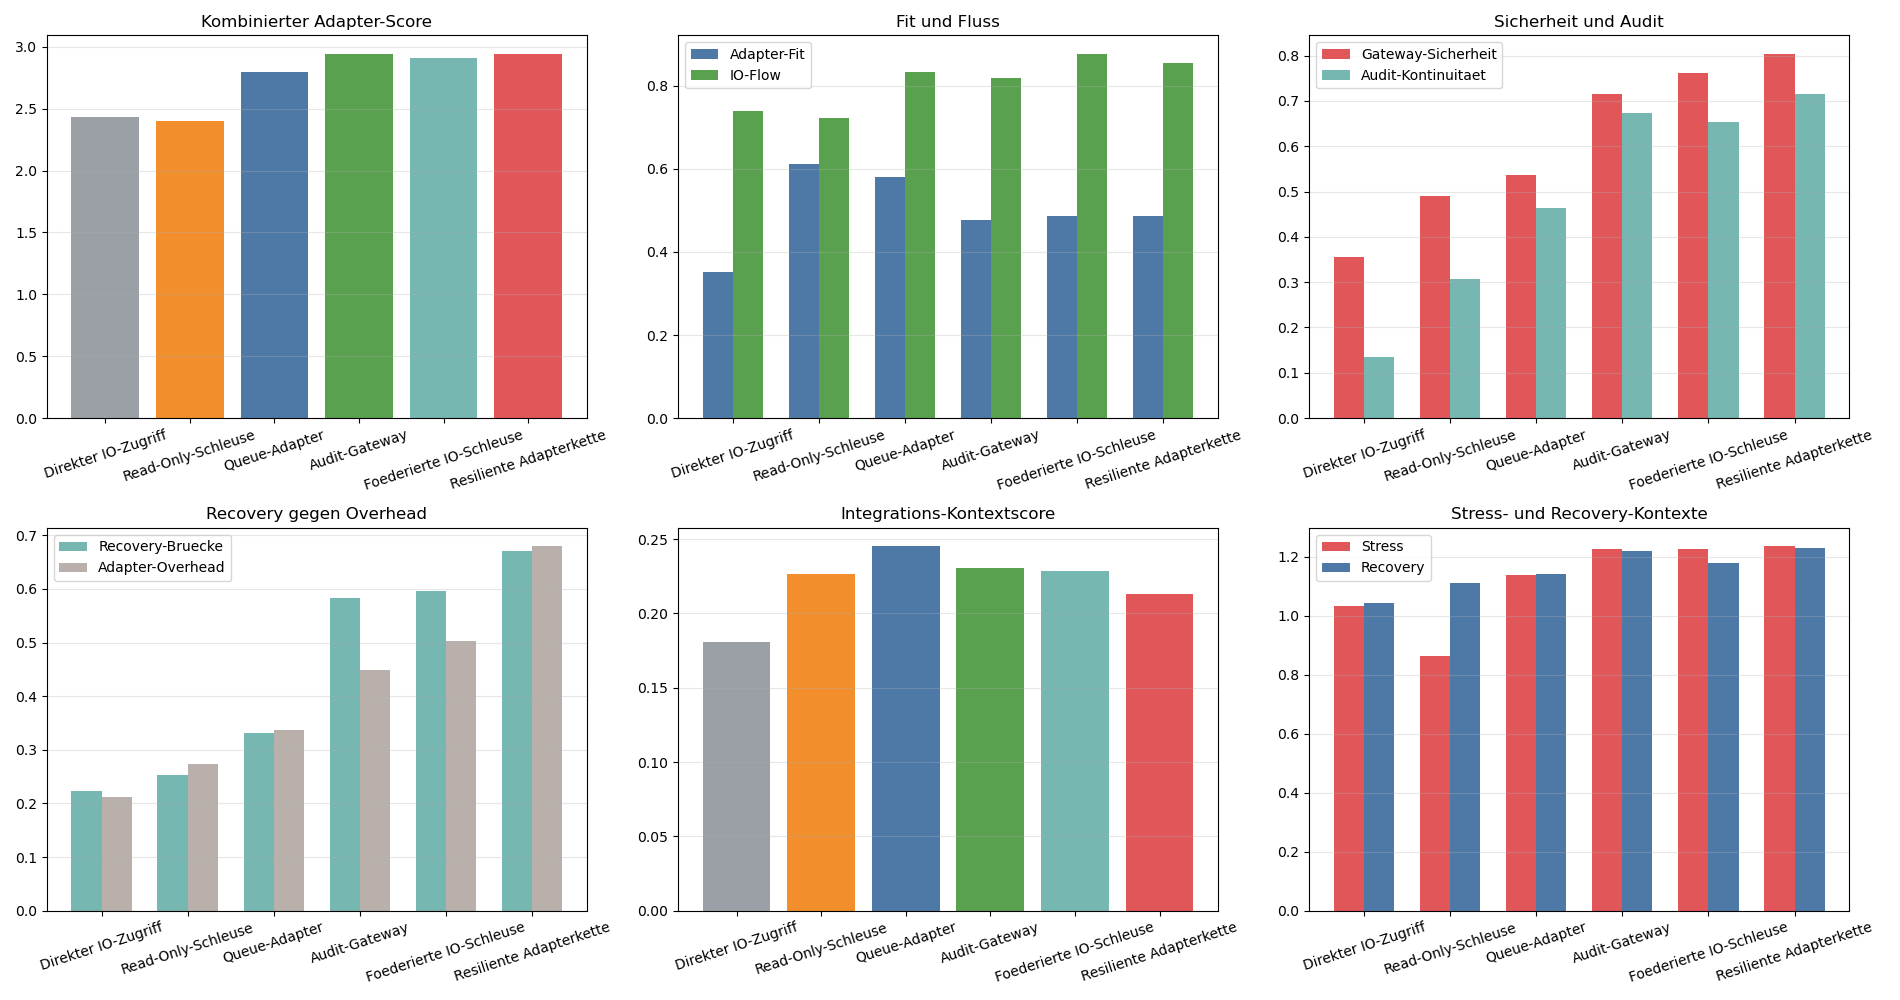
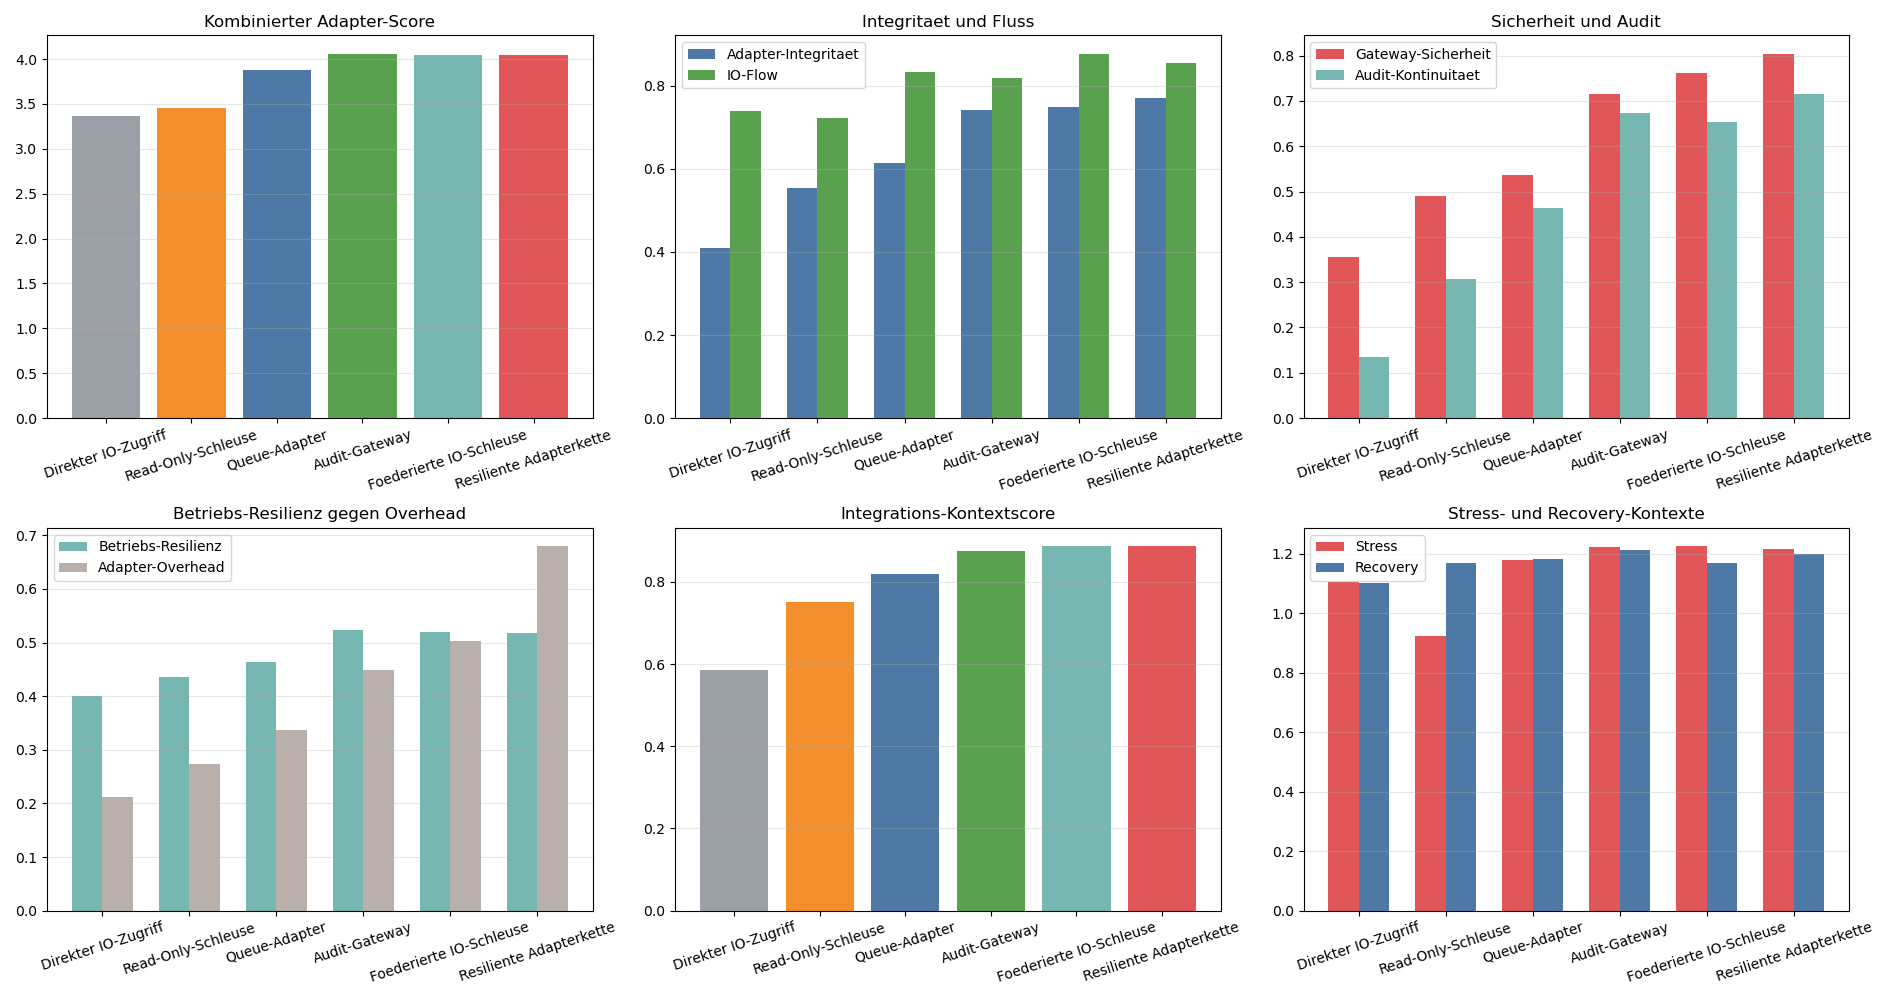
Refine tool adapter resilience metrics

diff --git a/schwarm_werkzeugadapter.py b/schwarm_werkzeugadapter.py
@@ -414,6 +414,28 @@ def adapter_metrics(config, result, params, profile, kontext):
             ]
         )
     )
+    adapter_integrity = clamp01(
+        mittelwert(
+            [
+                adapter_fit,
+                gateway_safety,
+                audit_continuity,
+                1.0 - workflow.get('misinformation_corruption_mean', 0.0),
+                route_traceability,
+            ]
+        )
+    )
+    operational_resilience = clamp01(
+        mittelwert(
+            [
+                io_flow,
+                recovery_bridge,
+                gateway_safety,
+                workflow.get('sync_strength_mean', 0.0),
+                1.0 - adapter_overhead,
+            ]
+        )
+    )
 
     return {
         'completion_rate': workflow.get('completion_rate', 0.0),
@@ -435,6 +457,8 @@ def adapter_metrics(config, result, params, profile, kontext):
         'audit_continuity': audit_continuity,
         'io_flow': io_flow,
         'recovery_bridge': recovery_bridge,
+        'adapter_integrity': adapter_integrity,
+        'operational_resilience': operational_resilience,
         'adapter_overhead': adapter_overhead,
         'route_exposure': route_exposure,
     }
@@ -484,35 +508,34 @@ def context_score(kontext_name, result, agent_count):
 
     if kontext_name == 'integration':
         return (
-            metrics['completion_rate']
-            + 0.18 * metrics['adapter_fit']
+            metrics['adapter_integrity']
+            + 0.18 * metrics['operational_resilience']
             + 0.14 * metrics['io_flow']
             + 0.08 * metrics['audit_continuity']
             - 0.10 * metrics['adapter_overhead']
         )
     if kontext_name == 'operations':
         return (
-            metrics['completion_rate']
+            metrics['operational_resilience']
             + 0.18 * metrics['io_flow']
-            + 0.14 * metrics['audit_continuity']
-            + 0.10 * metrics['adapter_fit']
+            + 0.14 * metrics['adapter_integrity']
+            + 0.10 * metrics['audit_continuity']
             - 0.10 * metrics['adapter_overhead']
         )
     if kontext_name == 'stress':
         return (
             base
-            + 0.18 * metrics['gateway_safety']
-            + 0.14 * metrics['audit_continuity']
-            + 0.10 * metrics['recovery_bridge']
-            - 0.12 * metrics['corruption_mean']
+            + 0.18 * metrics['adapter_integrity']
+            + 0.14 * metrics['operational_resilience']
+            + 0.10 * metrics['gateway_safety']
             - 0.10 * metrics['route_exposure']
             - 0.08 * metrics['adapter_overhead']
         )
     return (
         base
-        + 0.20 * metrics['recovery_bridge']
-        + 0.12 * metrics['gateway_safety']
-        + 0.08 * metrics['audit_continuity']
+        + 0.20 * metrics['operational_resilience']
+        + 0.12 * metrics['adapter_integrity']
+        + 0.08 * metrics['gateway_safety']
         - 0.12 * failed_share
         - 0.08 * metrics['adapter_overhead']
     )
@@ -526,6 +549,8 @@ def summarize_runs(runs, profile, context_list, agent_count):
         'audit_continuity': {},
         'io_flow': {},
         'recovery_bridge': {},
+        'adapter_integrity': {},
+        'operational_resilience': {},
         'adapter_overhead': {},
         'route_exposure': {},
     }
@@ -580,8 +605,8 @@ def main():
         summaries.append(summary)
         print(
             f"{summary['label']:<28} Score={summary['combined_score']:+.3f} | "
-            f"Fit={summary['adapter_fit']['integration']:.2f} | "
-            f"Safety={summary['gateway_safety']['stress']:.2f} | "
+            f"Integritaet={summary['adapter_integrity']['stress']:.2f} | "
+            f"Betriebs-Resilienz={summary['operational_resilience']['recovery']:.2f} | "
             f"Flow={summary['io_flow']['operations']:.2f}"
         )
 
@@ -594,9 +619,9 @@ def main():
         f"Delta zu Direkter IO-Zugriff {best['combined_score'] - baseline['combined_score']:+.3f}"
     )
     print(
-        f"Fit {best['adapter_fit']['integration']:.2f}, "
+        f"Integritaet {best['adapter_integrity']['stress']:.2f}, "
         f"Audit {best['audit_continuity']['stress']:.2f}, "
-        f"Recovery {best['recovery_bridge']['recovery']:.2f}"
+        f"Betriebs-Resilienz {best['operational_resilience']['recovery']:.2f}"
     )
 
     labels = [item['label'] for item in summaries]
@@ -614,9 +639,9 @@ def main():
 
     axes[0, 1].bar(
         x - width / 2,
-        [item['adapter_fit']['integration'] for item in summaries],
+        [item['adapter_integrity']['stress'] for item in summaries],
         width,
-        label='Adapter-Fit',
+        label='Adapter-Integritaet',
         color='#4e79a7',
     )
     axes[0, 1].bar(
@@ -626,7 +651,7 @@ def main():
         label='IO-Flow',
         color='#59a14f',
     )
-    axes[0, 1].set_title('Fit und Fluss')
+    axes[0, 1].set_title('Integritaet und Fluss')
     axes[0, 1].set_xticks(x)
     axes[0, 1].set_xticklabels(labels, rotation=18)
     axes[0, 1].legend()
@@ -654,9 +679,9 @@ def main():
 
     axes[1, 0].bar(
         x - width / 2,
-        [item['recovery_bridge']['recovery'] for item in summaries],
+        [item['operational_resilience']['recovery'] for item in summaries],
         width,
-        label='Recovery-Bruecke',
+        label='Betriebs-Resilienz',
         color='#76b7b2',
     )
     axes[1, 0].bar(
@@ -666,7 +691,7 @@ def main():
         label='Adapter-Overhead',
         color='#bab0ab',
     )
-    axes[1, 0].set_title('Recovery gegen Overhead')
+    axes[1, 0].set_title('Betriebs-Resilienz gegen Overhead')
     axes[1, 0].set_xticks(x)
     axes[1, 0].set_xticklabels(labels, rotation=18)
     axes[1, 0].legend()
